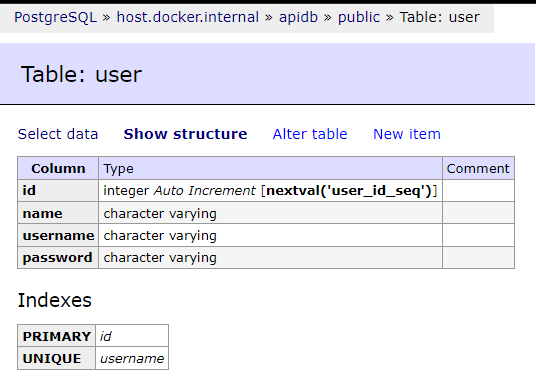
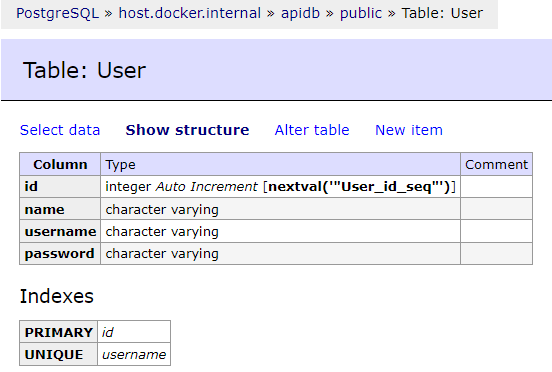
:card_file_box: Entity User named explicity
Define name User name table.

diff --git a/src/database/entities/user.ts b/src/database/entities/user.ts
@@ -1,6 +1,6 @@
 import { BaseEntity, Column, Entity, PrimaryGeneratedColumn } from "typeorm";
 
-@Entity()
+@Entity({name: "User"})
 export class User extends BaseEntity {
   @PrimaryGeneratedColumn()
   id!: number;

diff --git a/README.md b/README.md
@@ -23,8 +23,10 @@ Create typscript config
 ```console
 tsc --init
 ```
-###Config files
-####tsconfig.json
+### Config files
+
+**tsconfig.json**
+
 Add experimentalDecorators, emitDecoratorMetadata, sourceMap, outDir, rootDir, bseUrl and paths into compilerOptions.
 ```json
 {
@@ -64,7 +66,8 @@ Add experimentalDecorators, emitDecoratorMetadata, sourceMap, outDir, rootDir, b
   }
 }
 ```
-####.env
+**.env**
+
 Create .env file for environments vars
 ```bash
 NODE_ENV="development"
@@ -83,7 +86,7 @@ DS_PG_USER="postgres"
 DS_PG_PASS="d3Ve10p"
 DS_PG_DB="apidb"
 ```
-####webpack.config.js
+**webpack.config.js**
 ```javascripts
 const path = require('path');
 const nodeExternals = require('webpack-node-externals');
@@ -113,7 +116,8 @@ module.exports = {
     externals: [nodeExternals()],
 }
 ```
-####package.json
+**package.json**
+
 Add script command dev, build and start
 ```json
 {
@@ -153,7 +157,7 @@ Add script command dev, build and start
   }
 }
 ```
-###Logger
+### Logger
 Create src/utils/logger.ts
 ```javascript
 import { createLogger, format, transports } from "winston";
@@ -185,7 +189,7 @@ export const Logger = createLogger({
   ],
 });
 ```
-###Database
+### Database
 create src/database/index.ts
 ```javascript
 import { User } from "@entities/user";
@@ -230,12 +234,12 @@ export const db = {
   },
 };
 ```
-###User
+### User
 Create src/database/entities/user.ts
 ```javascript
 import { BaseEntity, Column, Entity, PrimaryGeneratedColumn } from "typeorm";
 
-@Entity()
+@Entity({name: "User"})
 export class User extends BaseEntity {
   @PrimaryGeneratedColumn()
   id!: number;
@@ -278,7 +282,7 @@ export const GET_ALL_USERS = {
     }
 }
 ```
-###Message
+### Message
 Create src/graphql/type_defs/message.ts
 ```javascript
 import { GraphQLObjectType, GraphQLString } from "graphql";
@@ -309,7 +313,7 @@ export const GET_MESSAGE = {
   },
 };
 ```
-###GraphQL Schema
+### GraphQL Schema
 Create src/graphql/index.ts
 ```javascript
 import { GraphQLObjectType, GraphQLSchema } from "graphql";
@@ -418,7 +422,7 @@ Check new row with GraphQL API
 http://localhost:3001/api
 
 Create query for user
-```json
+```javascript
 query {
   getAllUsers {
     id
@@ -429,7 +433,9 @@ query {
 }
 ```
 Check result
+
 ![user table](resources/img/graphql_user.png?raw=true)
+
 Check log
 ```bash
 [2022-08-30T21:00:58.625Z] debug: graphql.queries.user.GET_ALL_USERS.resolve()
@@ -472,16 +478,16 @@ Result:
 $ yarn start
 yarn run v<#.##.## your version>
 $ node ./dist/index.js
-[2022-08-30T21:08:21.362Z] debug: database.initDbPg
+[2022-08-30T21:52:08.094Z] debug: database.initDbPg
 query: SELECT * FROM current_schema()
 query: SELECT version();
 query: START TRANSACTION
 query: SELECT * FROM current_schema()
 query: SELECT * FROM current_database()
-query: SELECT "table_schema", "table_name" FROM "information_schema"."tables" WHERE ("table_schema" = 'public' AND "table_name" = 'i')
+query: SELECT "table_schema", "table_name" FROM "information_schema"."tables" WHERE ("table_schema" = 'public' AND "table_name" = 'User')
 query: SELECT * FROM "information_schema"."tables" WHERE "table_schema" = 'public' AND "table_name" = 'typeorm_metadata'
-query: CREATE TABLE "i" ("id" SERIAL NOT NULL, "name" character varying NOT NULL, "username" character varying NOT NULL, "password" character varying NOT NULL, CONSTRAINT "UQ_35befce1e7022fba16b43ea76e4" UNIQUE ("username"), CONSTRAINT "PK_6d227eb893132f54a420ceb177d" PRIMARY KEY ("id"))
+query: CREATE TABLE "User" ("id" SERIAL NOT NULL, "name" character varying NOT NULL, "username" character varying NOT NULL, "password" character varying NOT NULL, CONSTRAINT "UQ_29a05908a0fa0728526d2833657" UNIQUE ("username"), CONSTRAINT "PK_9862f679340fb2388436a5ab3e4" PRIMARY KEY ("id"))
 query: COMMIT
-[2022-08-30T21:08:21.624Z] info: Database postgres initialized successfuly!
-[2022-08-30T21:08:21.640Z] info: Server runnig in port 3001
+[2022-08-30T21:52:08.322Z] info: Database postgres initialized successfuly!
+[2022-08-30T21:52:08.329Z] info: Server runnig in port 3001
 ```
